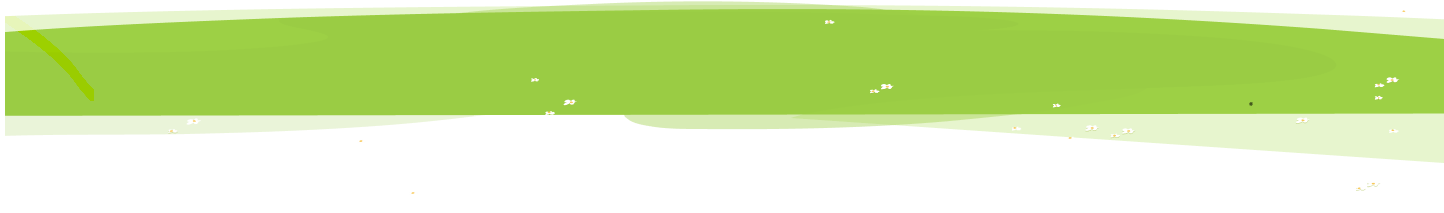
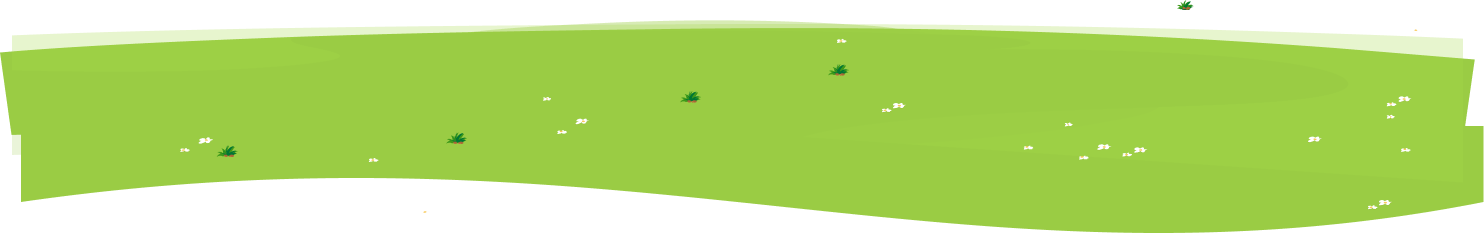
last push

diff --git a/index.html b/index.html
@@ -15,11 +15,14 @@
   </head>
   <body class="bg_sky">
     <header
-      class="bg_header min_vh_100 d-flex flex-column justify-content-between align-items-center position-relative mb_n20 "
+      class="bg_header min_vh_100 d-flex flex-column align-items-center position-relative justify-content-between mb-5 "
     >
-    <!-- <div class="headerlefttree"><img src="./assets/images/webp/header_lefttree.png" alt="lefttree"></div>
-    <div class="headerrighttree"><img src="./assets/images/webp/headerrighttree.png" alt="righttree"></div>
-    <div class="headerstone"><img src="./assets/images/webp/headerstone.png" alt="headerstone"></div> -->
+    <div class="header_smallcloud"><img src="./assets/images/webp/header_cloud.png" alt=""></div>
+    <div class="header_cloud"><img src="./assets/images/webp/header_cloud.png" alt="cloud"></div>
+    <div class="navdown_cloud"><img src="./assets/images/webp/navdown_cloud.png" alt="navdown_cloud"></div>
+    <div class="headerlefttree d-none d-xl-block"><img src="./assets/images/webp/header_lefttree.png" alt="header_lefttree"></div>
+    <div class="headerrighttree d-none d-xl-block"><img src="./assets/images/webp/headerright_tree.png" alt="header_righttree"></div>
+    <div class="hero_rainbow d-lg-block d-none"><img src="./assets/images/webp/her_rainbow.webp" alt="herorainbow"></div>
       <div class="container">
         <nav class="d-flex justify-content-between align-items-center">
           <div class="d-flex align-items-center curser_pointer">
@@ -39,13 +42,25 @@
           </div>
           <div class="d-lg-flex align-items-center d-none">
             <div class="pe-3">
-              <img class="curser_pointer" src="./assets/images/webp/twitter.png" alt="twitter" />
+              <img
+                class="curser_pointer"
+                src="./assets/images/webp/twitter.png"
+                alt="twitter"
+              />
             </div>
             <div class="pe-3">
-              <img class="curser_pointer" src="./assets/images/webp/discord.png" alt="discord" />
+              <img
+                class="curser_pointer"
+                src="./assets/images/webp/discord.png"
+                alt="discord"
+              />
             </div>
             <div>
-              <img class="curser_pointer" src="./assets/images/webp/instagram.png" alt="instagram" />
+              <img
+                class="curser_pointer"
+                src="./assets/images/webp/instagram.png"
+                alt="instagram"
+              />
             </div>
           </div>
           <div class="nav-icon d-lg-none" id="shownav" onclick="shownav()">
@@ -56,64 +71,60 @@
             </div>
           </div>
         </nav>
-        <main>
-          <div
-            class="container d-flex flex-column align-items-center pt-5 justify-content-center"
-          >
-            <h1
-              class="text-center fw-normal fs_xl color_orange text_shadow_black textshadow_black ff_chary"
-            >
-              Cozy<span class="color_green textshadow_black ff_soda">Capys</span
-              ><span class="ff_chary color_white textshadow_black">NFT</span>
-            </h1>
-            <p
-              class="text-center mw_758px color_white fw-bold fs_sm textshadow_black"
-            >
+
+        <main class="d-flex flex-column justify-content-center align-items-center mt-5 pt-4">
+          <h1 class="text-center ff_chary fs_xl color_orange textshadow_black word_spacing">
+            Cozy <span class="ff_soda color_green"> Capys </span> <span class="color_white">NFT </span>
+          </h1>
+
+            <p class="text-center color_white fs_sm mw_758px pt-4">
               Cozy Capys is an impactful NFT project featuring 10,000 adorable
               capybara characters! 10% of all proceeds will go to wildlife
               conservation organizations!
             </p>
-            <button class="header_button">Join Us</button>
+            <button class="ff_balsmiq fw-bold fs_md header_button mt-4">Join Us</button>
           </div>
           </div>
-          <div class="w-100 mb_n1 ">
-            <img
-              class="w-100"
-              src="./assets/images/webp/hippogroup.png"
-              alt="hippogroup"
-            />
+          <div class="w-100 position-relative z-3"><img class="w-100 position-relative z-2" src="./assets/images/webp/hippogroup.png" alt="hippogroup">
+            <div class="hero_grass w-100 z-0"><img class="w-100" src="./assets/images/webp/hero_green_img.webp" alt=""></div>
           </div>
+         
         </main>
-      </div>
-       <div class="w-100 mb_n20">
-            <img class="w-100" src="./assets/images/webp/grass.png" alt="grass" /></div>
+      
     </header>
     <!-- -----------------------------ABOUT us----------------------------------- -->
     <section class="bg_pink py-5 position-relative">
-      <div class="about_hippo w-100 z-1 d-lg-block d-none"><img class="w-100 h-100" src="./assets/images/webp/about_hippo.png" alt="hippo"></div>
-      <div class="about_tree z-2 d-none d-lg-block"><img src="./assets/images/webp/aboutus_tree.png" alt="about_tree"></div>
-      <div class="container"> 
-          <div
-            class="bg_cloud py-5 px-xl-0 px-5 "
+      <div class="about_hippo w-100 z-1 d-lg-block d-none">
+        <img
+          class="w-100 h-100"
+          src="./assets/images/webp/about_hippo.png"
+          alt="hippo"
+        />
+      </div>
+      <div class="about_tree z-2 d-none d-lg-block">
+        <img src="./assets/images/webp/aboutus_tree.png" alt="about_tree" />
+      </div>
+      <div class="container py-5">
+        <div class="bg_cloud py-5 px-xl-0 px-5">
+          <h2
+            class="text-center ff_chary fw-normal fs_xlg color_pink textshadow_pink mt-100"
           >
-            <h2
-              class="text-center ff_chary fw-normal fs_xlg color_pink textshadow_pink mt-100"
-            >
-              About Us
-            </h2>
-            <p class="text-center mx-auto ff_balsmiq fs_sm lh_27px mb-0 pt-3 mw_707px">
-              Cozy Capys is an impactful NFT project featuring 10,000 adorable
-              capybara characters! Capybaras are sweet, caring, and gentle
-              creatures that can form strong bonds with anyone around them. By
-              donating 10% of all proceeds to organizations that support
-              wildlife conservation, hosting inclusive community events, and
-              offering real-life animal experiences, Cozy Capys aims to
-              incorporate all the amazing qualities that these animals portray
-              each and every day! Adopt your Cozy Capy today and join our
-              wonderful community in giving back to the beautiful world around
-              us.
-            </p>
-          </div>
+            About Us
+          </h2>
+          <p
+            class="text-center mx-auto ff_balsmiq fs_sm lh_27px mb-0 pt-3 mw_707px"
+          >
+            Cozy Capys is an impactful NFT project featuring 10,000 adorable
+            capybara characters! Capybaras are sweet, caring, and gentle
+            creatures that can form strong bonds with anyone around them. By
+            donating 10% of all proceeds to organizations that support wildlife
+            conservation, hosting inclusive community events, and offering
+            real-life animal experiences, Cozy Capys aims to incorporate all the
+            amazing qualities that these animals portray each and every day!
+            Adopt your Cozy Capy today and join our wonderful community in
+            giving back to the beautiful world around us.
+          </p>
+        </div>
       </div>
     </section>
 
@@ -142,7 +153,7 @@
         >
           <div class="col-lg-6">
             <h2 class="ff_chary color_white textshadow_blue fs_xlg">Impact</h2>
-            <p class="ff_balsmiq color_black op_70 fs_sm">
+            <p class="ff_balsmiq color_black op_70 fs_sm pb-5">
               Cozy Capys, an NFT project centered around adorable capybara
               characters, aims to create a positive social impact. It achieves
               this through initiatives such as donating 10% of proceeds to
@@ -173,7 +184,6 @@
 
     <!-- -----------------------------ROADMAP----------------------------------------- -->
     <section class="py-5 bg_lightgreen position-relative">
-    
       <div class="impact_layer">
         <img
           class="w-100"
@@ -567,6 +577,17 @@
         </div>
       </div>
     </section>
+    <!-- ---------------------------------FAQS----------------------------------------------->
+    <section class="bg_cream position-relative py-5">
+      <div class="roadmap_layer w-100"><img class="w-100" src="./assets/images/webp/roadmap_bottom.png" alt="roadmap_bottom"></div>
+<div class="container">
+<h2 class="text-center ff_chary fs_xlg color_white textshadow_orange {
+  text-shadow: 1px 1px rgba(255, 212, 154, 1) !important;
+}">FAQ’s</h2>
+</div>
+    </section>
+
+    
     <script>
       function shownav() {
         document.getElementById("navBar").classList.toggle("shownav");

diff --git a/assets/css/style.css b/assets/css/style.css
@@ -9,6 +9,9 @@
   box-sizing: border-box;
 }
 
+.sm_nav {
+  min-height: 100vh;
+}
 nav ul li {
   padding-right: 17px;
   padding-left: 17px;
@@ -17,22 +20,41 @@ nav ul li a {
   color: rgba(255, 255, 255, 1);
   font-family: "Balsamiq Sans";
   font-weight: 700;
- 
 }
- .headerstone{
-    position: absolute;
-    bottom: 0%;
-    left: 0%;
-  }
+.word_spacing {
+  word-spacing: -35px !important;
+}
+.hero_grass {
+  position: absolute;
+  bottom: -40%;
+}
+
+.hero_rainbow {
+  position: absolute;
+  top: 30%;
+  left: 5%;
+}
 .headerlefttree {
   position: absolute;
   left: -10%;
-  bottom: 10%;
+  bottom: -4%;
+  z-index: 5;
 }
-.headerrighttree{
+.headerrighttree {
   position: absolute;
   right: 0%;
-  bottom: 20%;
+  bottom: -3%;
+  z-index: 5;
+}
+.header_cloud {
+  position: absolute;
+  top: 10%;
+  right: 20%;
+}
+.header_smallcloud {
+  position: absolute;
+  top: 50%;
+  left: 30%;
 }
 .ff_chary {
   font-family: "Cherry Bomb One", cursive !important;
@@ -46,9 +68,7 @@ nav ul li a {
 .ff_balsmiq {
   font-family: "Balsamiq Sans", cursive;
 }
-.mb_n20 {
-  margin-bottom: -5%;
-}
+
 .bg_header {
   background: url(../images/webp/bg_sky.png);
   background-size: cover;
@@ -63,7 +83,9 @@ nav ul li a {
 .curser_pointer {
   cursor: pointer;
 }
-
+.trtl_y10 {
+  transform: translateY(8%);
+}
 .bar1,
 .bar2,
 .bar3 {
@@ -71,6 +93,12 @@ nav ul li a {
   min-height: 5px;
   margin-bottom: 5px;
   background-color: white;
+}
+.z_4 {
+  z-index: 4;
+}
+.trtl_xn10 {
+  transform: translateX(-2%) translateY(-6%);
 }
 .mw_758px {
   max-width: 758px;
@@ -84,10 +112,7 @@ nav ul li a {
 .textshadow_black {
   text-shadow: 2px 2px rgba(0, 0, 0, 0.25);
 }
-.textshadow_orange {
-  text-shadow: 1px 1px rgba(255, 212, 154, 1) !important;
-}
-.textshadow_green {
+extshadow_green {
   text-shadow: 1px 1px rgba(207, 254, 127, 1);
 }
 .header_button {
@@ -282,6 +307,25 @@ nav ul li a {
 .textshadow_green2 {
   text-shadow: 1px 4px rgba(91, 167, 43, 1);
 }
+.navdown_cloud {
+  position: absolute;
+  top: 3%;
+  right: 0%;
+}
+.roadmap_layer {
+  position: absolute;
+  top: -70%;
+}
+/* ------------------------------------------------FAQS-------------------------------------------------- */
+.bg_cream {
+  background-color: #fcbe69;
+}
+.textshadow_orange{
+  text-shadow: 4px 4px rgb(255, 145, 0) !important;
+}
+  
+
+
 @media (max-width: 1200px) {
   .about_hippo {
     position: absolute;
@@ -299,6 +343,11 @@ nav ul li a {
     bottom: -29%;
     left: -30%;
   }
+  .hero_rainbow {
+    position: absolute;
+    top: 30%;
+    left: -10%;
+  }
 }
 @media (max-width: 992px) {
   ul {
@@ -313,6 +362,39 @@ nav ul li a {
   .hw_lg {
     height: 450px;
     width: 200px;
+  }
+  .header_smallcloud {
+    position: absolute;
+    top: 50%;
+    left: 10%;
+  }
+  .navbar {
+    position: fixed;
+    left: -100%;
+    top: 0;
+    display: flex;
+    flex-direction: column;
+    align-items: center;
+    justify-content: center;
+    gap: 30px;
+    background: #000000;
+    height: 100vh;
+    width: 100%;
+    transition: all 300ms linear;
+    z-index: 50;
+  }
+
+  .shownav {
+    left: 0;
+  }
+
+  .mobile-navbar-btn span {
+    position: relative;
+    z-index: 999;
+    border: 3px solid #0077ff;
+    background-color: #ffffff;
+    height: 15px;
+    width: 45px;
   }
 }
 @media (min-width: 1440px) {
@@ -340,13 +422,23 @@ nav ul li a {
     right: -24%;
     z-index: 0;
   }
+
+  .headerlefttree {
+    position: absolute;
+    left: -15%;
+    bottom: -4%;
+  }
 }
+
 @media (max-width: 767px) {
   .bigcard {
     padding-top: 45px;
     padding-bottom: 45px;
     padding-left: 25px;
     padding-right: 25px;
+  }
+  .word_spacing {
+    word-spacing: -20px !important;
   }
 }
 @media (max-width: 576px) {
